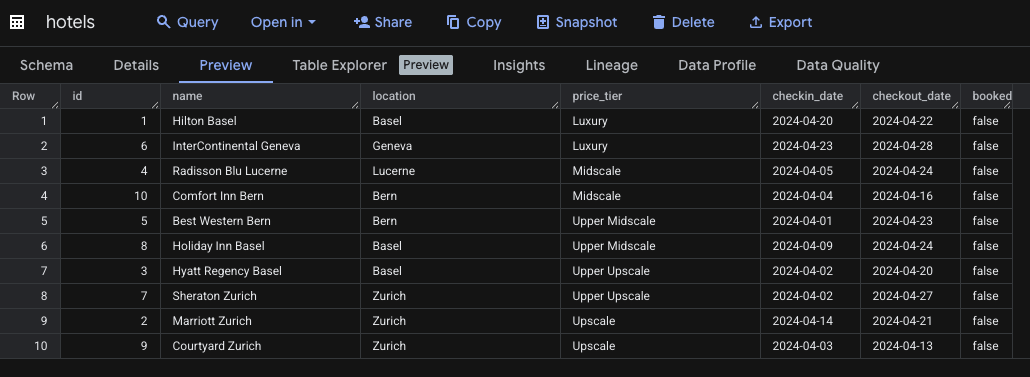
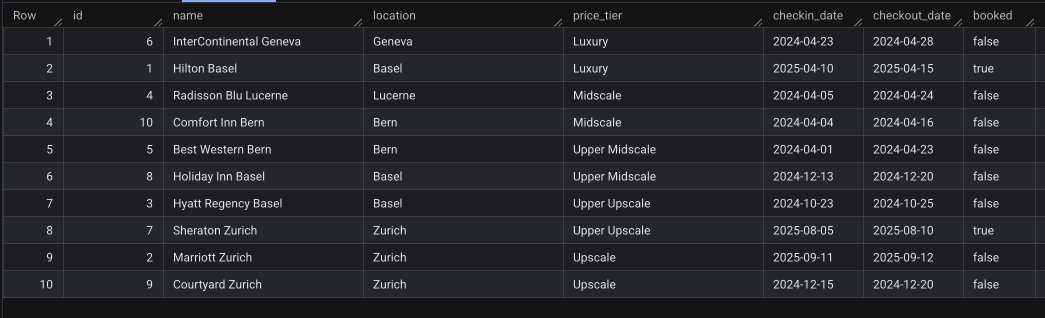
improving Readme

diff --git a/README.md b/README.md
@@ -4,6 +4,34 @@ This repository contains a custom GenAI Agent specialized in handling Hotel's bo
 
 All the code included in this project is intended for demonstration purposes only. It is not intended for use in a production environment. Permissions granted to the underlying resources are too broad, so is important to deploy this demo with caution and not use production infrastructure, datasources, etc.
 
+## Example User Interaction
+
+Once all the solution's components are deployed to GCP and Slack application settings are completed and installed on a Slack Workspace, we can start asking questions to our Agent by mentioning it on a channel. But first, lets quickly check the BigQuery table containing the data we will be accessing through our conversational Agent.
+
+![BigQuery table with Hotel's data](/images/bq1.png)
+
+In the table there are a handful of hotel related entries, including the hotel's internal identifier, its name, city location price tier, available checkin and checkout dates and if they are currently booked. We have defined through our MCP Toolbox [configuration](/infra/mcptoolbox/tools.yaml.tpl) the expected access patterns, as SQL statements, for our Agent to use as tools:
+* Searches by name or location
+* Book a hotels by its ID
+* Update checkin and checkout dates by ID and ISO datetime format
+* Cancel a booking by ID
+
+Once our Agent configures the LLM with the toolbox, it shares the possible direct interactions the LLM can trigger when provided with the right parameters (ID, names, location, ISO datetimes). But given that an LLM is really good to interpret natural language, recognize patterns and formulate plans of execution, we can stretch the previously defined interactions letting the LLM fit the right requests on the expected tools.
+
+To test that, lets try to request multiple locations at once (even though our interface only expect one) and make multiple cancellation, bookings and checkin/checkout updates all at once:
+
+![Chat interaction](/images/chat1.png)
+
+In this case our Agent correctly identifies the use case and triggers multiple calls to the configured tools to obtain the expected results (3 hotels in Basel and none in Barcelona). Next we can see how the Agent correctly completes our cancellation/booking/update request all in once action as triggered by our user.
+
+We can check then that our requested changes were correctly persisted, after our interactions.
+
+![BigQuery table with Hotel's data](/images/bq2.png)
+
+Our Agent demonstrate how powerful a conversational UX implemented through a specific Agent, MCP and a correct toolset to achieve complex task in a particular domain.
+
+The example data and functionalities are extracted directly from the MCP Toolbox [page](https://googleapis.github.io/genai-toolbox/samples/bigquery/mcp_quickstart/).
+
 ## Components
 
 This solution integrates the following components:
@@ -114,22 +142,6 @@ To integrate the bot with your Slack workspace, you need to create and configure
     After the script completes successfully, the Slack bot should be deployed and running on Cloud Run.
 
 Once these steps are completed and the application is redeployed with the correct Slack tokens and Claude API key, your bot should be able to connect to your Slack workspace and respond to user mentions. Be in mind that some responses may take longer than others, some roundtrips can take long (Slackbot service - LLM - Slackbot service - MCP interaction - new LLM interaction - response to Slack).
-
-## Example User Interaction
-
-Once all the components are deployed and configured correctly, and the Slack app was added to a workspace we can ask a question to the bot by mentioning it on a channel. But first lets check the BigQuery table containing the data we will be trying to query.
-
-![BigQuery table with Hotel's data](/images/bq1.png)
-
-We can then ask the bot to retrieve hotels based on their location:
-
-![Chat interaction](/images/chat1.png)
-
-After the Slackbot completes the interaction we can inspect the BigQuery table to see the changes propagated.
-
-![BigQuery table with Hotel's data](/images/bq2.png)
-
-The example data and functionalities are extracted directly from the MCP Toolbox [page](https://googleapis.github.io/genai-toolbox/samples/bigquery/mcp_quickstart/). In there you can see what other interactions can be used right away while accessing and updating data on BigQuery, and also how to add other GCP databases to the MCP service configured.
 
 ## Cleanup
 
